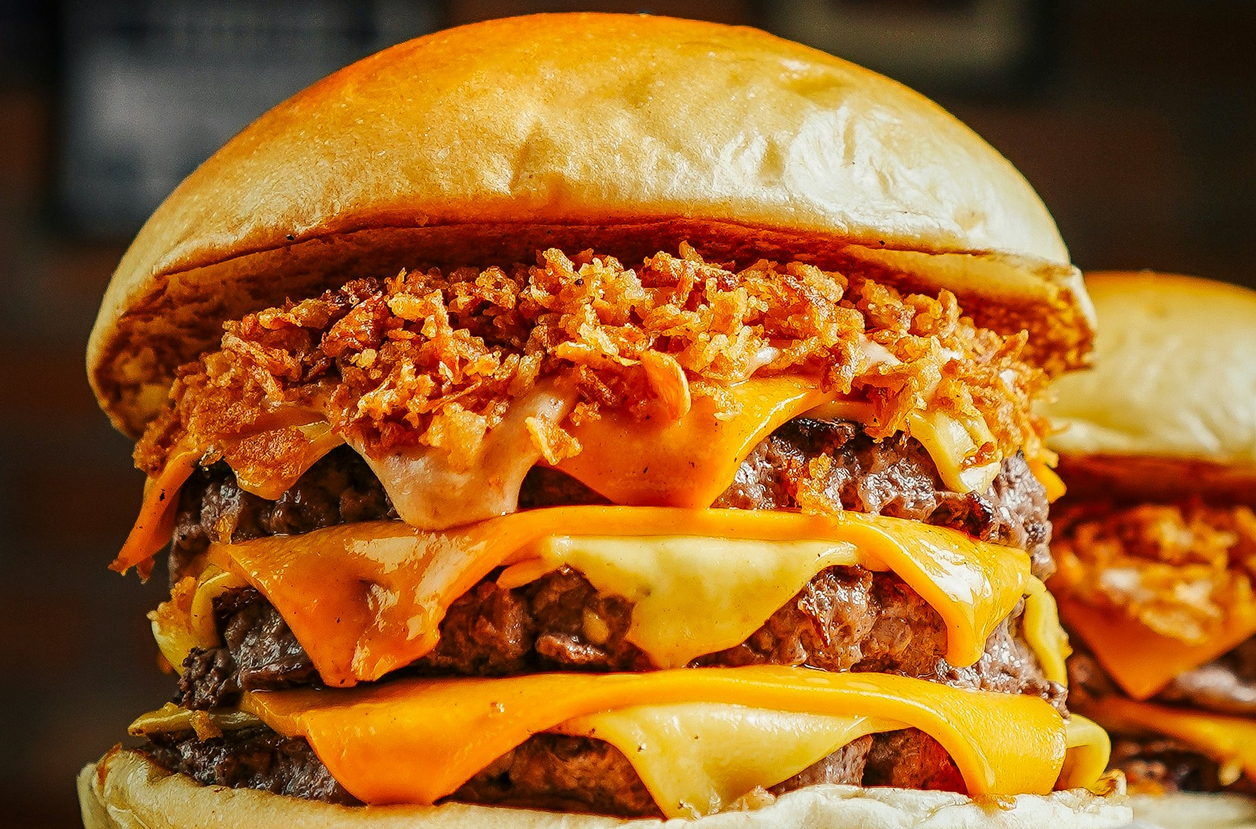
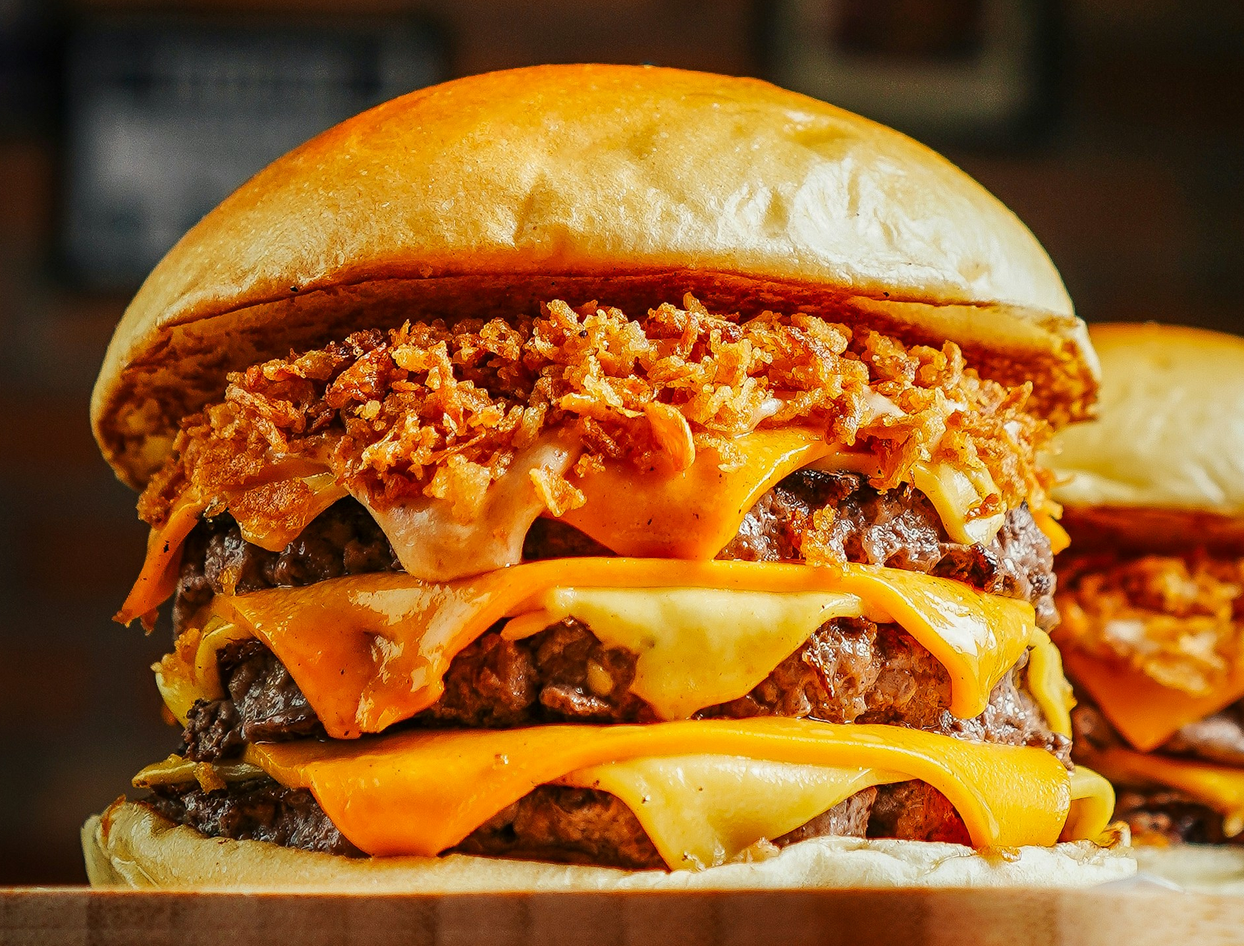
colocando irens no cardapio

diff --git a/index.html b/index.html
@@ -43,6 +43,8 @@
                 Tudo começou em uma cozinha, onde eles criavam receitas e novos sabores para os amigos.</p> <p>O que começou como uma brincadeira logo virou um sonho: abrir um lugar onde boa comida e aventura estivessem no mesmo lugar.Hoje, nossa tripulação continua em busca do hambúrguer perfeito e queremos você a bordo.</p>
                 </div>
 
+                <div> <img id="chefs" src="img/chefs.avif" alt="chefs"></div>
+
                 <h4>por que nos escolher?</h4>
 
                 <div id="cards">
@@ -97,7 +99,7 @@
             
             <div class="item">
                 
-                <img id="burguer" src="img/burguer3.jpg" alt="img">
+                <img id="burguer" src="img/burguer 5.jpg" alt="img">
                 <div>
                     <h4>KRAKEN</h4>
                     <p class="legenda">o monstro de três camadas.</p>
@@ -114,36 +116,44 @@
                 
                 <img id="burguer" src="img/burguer3.jpg" alt="img">
                 <div>
-                    <h4>KRAKEN</h4>
-                    <p class="legenda">o monstro de três camadas.</p>
-                    <p class="ingredientes">Ingredientes: pão brioche, 2 burgers bovinos de 120g, queijo cheddar duplo, bacon, cebola crispy, picles e molho especial da casa.</p>
-                    <p class="preco">R$ 39,90</p>
-                    <button class="pedir"><span class="material-symbols-outlined">skull</span>fazer pedido</button>
-                </div>
-            </div>
-            <div class="item">
-                
-                <img id="burguer" src="img/burguer3.jpg" alt="img">
-                <div>
-                    <h4>KRAKEN</h4>
-                    <p class="legenda">o monstro de três camadas.</p>
-                    <p class="ingredientes">Ingredientes: pão brioche, 2 burgers bovinos de 120g, queijo cheddar duplo, bacon, cebola crispy, picles e molho especial da casa.</p>
-                    <p class="preco">R$ 39,90</p>
-                    <button class="pedir"><span class="material-symbols-outlined">skull</span>fazer pedido</button>
-                </div>
-            </div>
-            <div class="item">
-                
-                <img id="burguer" src="img/burguer3.jpg" alt="img">
-                <div>
-                    <h4>KRAKEN</h4>
-                    <p class="legenda">o monstro de três camadas.</p>
-                    <p class="ingredientes">Ingredientes: pão brioche, 2 burgers bovinos de 120g, queijo cheddar duplo, bacon, cebola crispy, picles e molho especial da casa.</p>
-                    <p class="preco">R$ 39,90</p>
-                    <button class="pedir"><span class="material-symbols-outlined">skull</span>fazer pedido</button>
+                <h4>NAVIO FANTASMA</h4>
+                    <p class="ingredientes">pão brioche, burger bovino 160g, queijo cheddar, alface, tomate, cebola roxa, picles e molho secreto Maré Negra.</p>
+                    <p class="preco">R$ 29,90</p>
+                    <button class="pedir"><span class="material-symbols-outlined">skull</span> fazer pedido</button>
                 </div>
             </div>
 
+            <div class="item">
+                
+                <img id="burguer" src="img/batata1.jpg" alt="img">
+                <div>
+                <h4>BATATA BUCANEIRO</h4>
+                    <p class="ingredientes">Batata frita, cheddar cremoso, bacon crocante e molho especial da casa.</p>
+                    <p class="preco">R$ 39,90</p>
+                    <button class="pedir"><span class="material-symbols-outlined">skull</span>fazer pedido</button>
+                </div>
+            </div>
+            
+            <div class="item">
+                
+                <img id="burguer" src="img/bebidaazul.jpg" alt="img">
+                <div>
+                    <h4>LEVIATÃ</h4>
+                    <p class="ingredientes">Refrigerante de limão, xarope azul e gelo.</p>
+                    <p class="preco">R$ 39,90</p>
+                    <button class="pedir"><span class="material-symbols-outlined">skull</span>fazer pedido</button>
+                </div>
+            </div>
+            <div class="item">
+                
+                <img id="burguer" src="img/bebidaroxa.jpg" alt="img">
+                <div>
+                    <h4>SEREIA</h4>
+                    <p class="ingredientes">Refrigerante de uva, xarope de frutas vermelhas e gelo.</p>
+                    <p class="preco">R$ 39,90</p>
+                    <button class="pedir"><span class="material-symbols-outlined">skull</span>fazer pedido</button>
+                </div>
+            </div>
             </div>
            </section>
            <section id="contato">

diff --git a/style.css b/style.css
@@ -156,17 +156,18 @@ header #buttons button {
     color: rgb(221, 156, 14);
 }
 
+.textohistoria{
+    
+    margin-bottom: 60px ;
+
+}
+
 .textohistoria p {
     text-indent: 10px;
-    margin: 10px 7px;
-}
-
-#historia img {
-    border-top-right-radius: 15px;
-    border-end-end-radius: 15px;
-    width: 200px;
+    margin: 20px 7px;
 
 }
+
 
 #historia h4{
     color: rgb(221, 156, 14);
@@ -180,6 +181,14 @@ header #buttons button {
     width: 100%;
     display: flex;
     justify-content: space-evenly;
+}
+
+#chefs{
+    border-radius: 20px;
+    box-shadow: 0px 0px 25px rgba(221, 88, 11, 0.514);
+    display: block;
+    width: 300px;
+    margin: auto;
 }
 
 .card{
